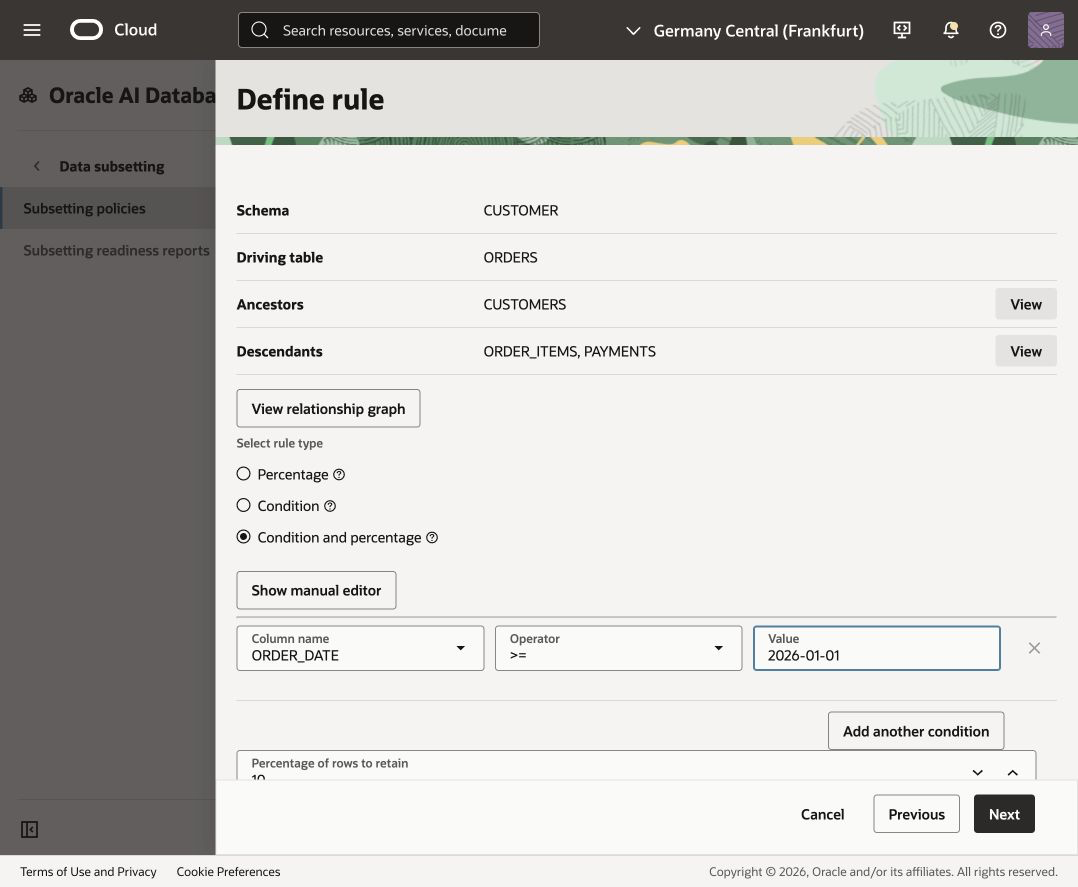
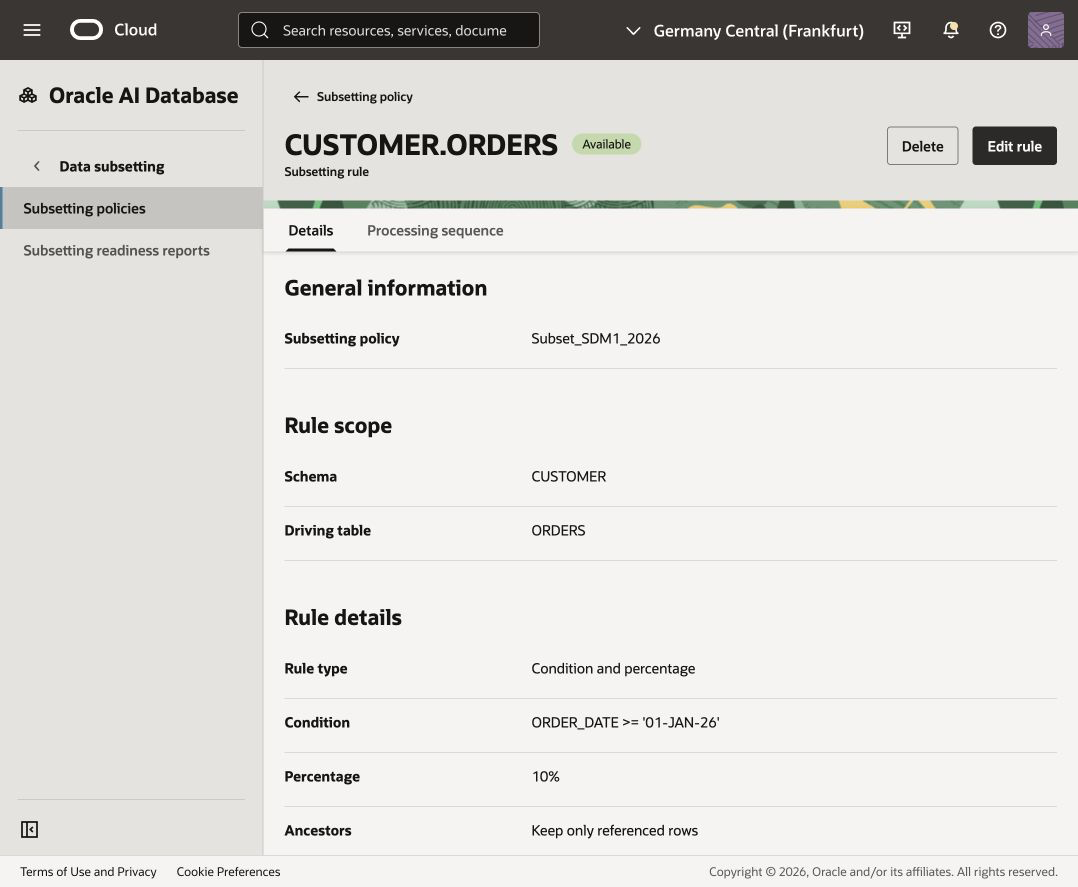
Update subsetting rule after OCI validation

diff --git a/data-safe/subset-data/subset-data-2026.md b/data-safe/subset-data/subset-data-2026.md
@@ -15,7 +15,7 @@ Estimated Time: 20 minutes
 - Open the Data Safe data subsetting overview and start the **Subset database** workflow.
 - Create a subsetting policy that includes the `CUSTOMER`, `PAYMENT`, and `SUPPORT` schemas.
 - Add a driving-table rule for `CUSTOMER.ORDERS`.
-- Filter `ORDER_DATE >= 2026-01-01`, then retain 10% of the matching rows.
+- In OCI's condition field, enter `ORDER_DATE >= '01-JAN-26'`, then retain 10% of the matching rows. This is the OCI UI representation of January 1, 2026; use the ANSI SQL form `DATE '2026-01-01'` in SQL Developer or Database Actions.
 - Keep referenced ancestor rows and referencing descendant rows so referential integrity is preserved.
 - Review the subsetting options and submit only when the configuration is correct.
 
@@ -64,7 +64,7 @@ WHERE ORDER_DATE >= DATE '2026-01-01';
 ### Task 2: Create the subsetting policy scope
 
 1. Set the policy compartment to the workshop compartment.
-2. Give the policy a descriptive name such as `Subset_SDM_CPS_2026_2026`.
+2. Give the policy a descriptive name such as `Subset_SDM1_2026`.
 3. Add a description such as `Recent 2026 customer transaction data for application testing`.
 4. Select **Get schemas from sensitive data model**.
 5. In the sensitive data model compartment, select the model created in the Data Discovery lab, such as `SDM_mainLL` in the reference environment.
@@ -81,14 +81,14 @@ WHERE ORDER_DATE >= DATE '2026-01-01';
 4. Configure the condition:
    - Column: `ORDER_DATE`
    - Operator: `>=`
-   - Value: `2026-01-01`
+   - Value: `01-JAN-26`
 5. Set **Percentage of rows to retain** to `10`.
 6. Keep **Keep only referenced rows** for ancestors so matching `CUSTOMER.CUSTOMERS` rows are retained.
 7. Keep **Keep only referencing rows** for descendants so matching `CUSTOMER.ORDER_ITEMS` and `PAYMENT.PAYMENTS` rows remain consistent.
 8. For other related tables, keep the default **Keep maximum rows** unless the test scenario requires a different policy.
 9. Review the relationship graph before continuing.
 
-The workflow applies the date condition first and the 10% retention second. It does not mean “10% of the full database”; it means 10% of the rows that satisfy `ORDER_DATE >= 2026-01-01`.
+The workflow applies the date condition first and the 10% retention second. It does not mean “10% of the full database”; it means 10% of the rows that satisfy `ORDER_DATE >= '01-JAN-26'`. In SQL, the equivalent date predicate is `ORDER_DATE >= DATE '2026-01-01'`.
 
 ![ORDER_DATE condition and 10 percent retention](images/condition-percentage-rule.png)
 
@@ -156,7 +156,7 @@ Confirm that the order count is smaller than the source count, that the retained
 | Target database | `ADB_2` or your registered target database |
 | Schemas | `CUSTOMER`, `PAYMENT`, `SUPPORT` |
 | Driving table | `CUSTOMER.ORDERS` |
-| Condition | `ORDER_DATE >= 2026-01-01` |
+| Condition | `ORDER_DATE >= '01-JAN-26'` in the OCI UI; `ORDER_DATE >= DATE '2026-01-01'` in SQL |
 | Retention | 10% of condition-matching rows |
 | Ancestors | Keep only referenced rows |
 | Descendants | Keep only referencing rows |
